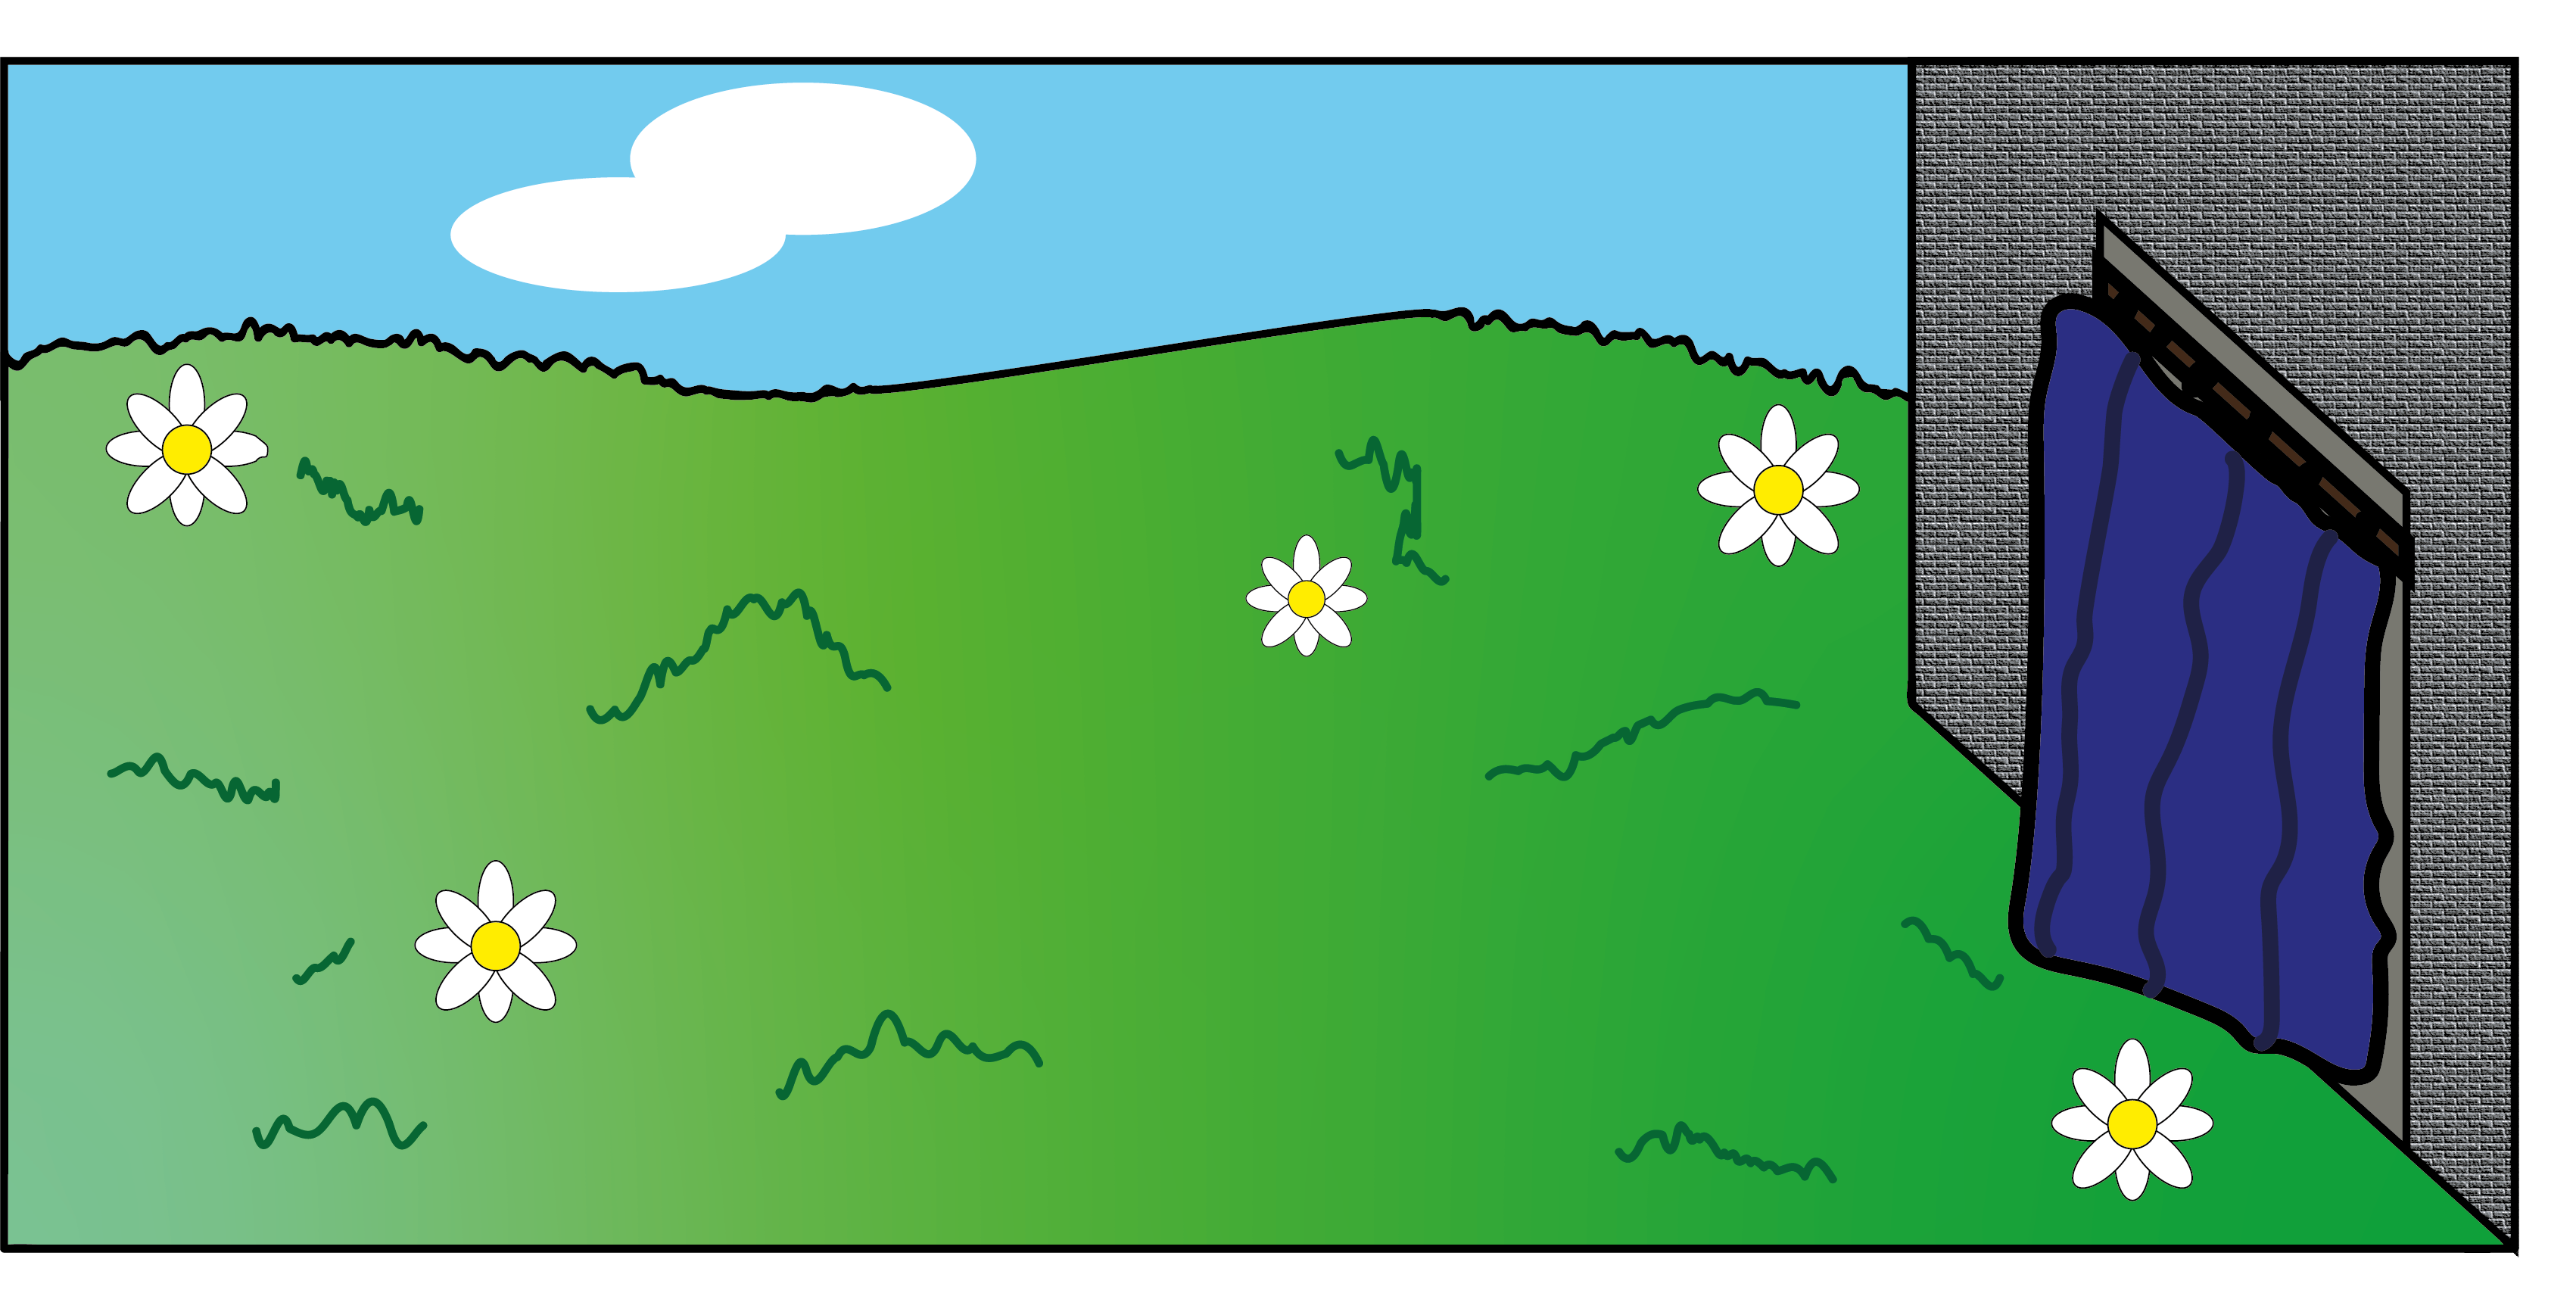
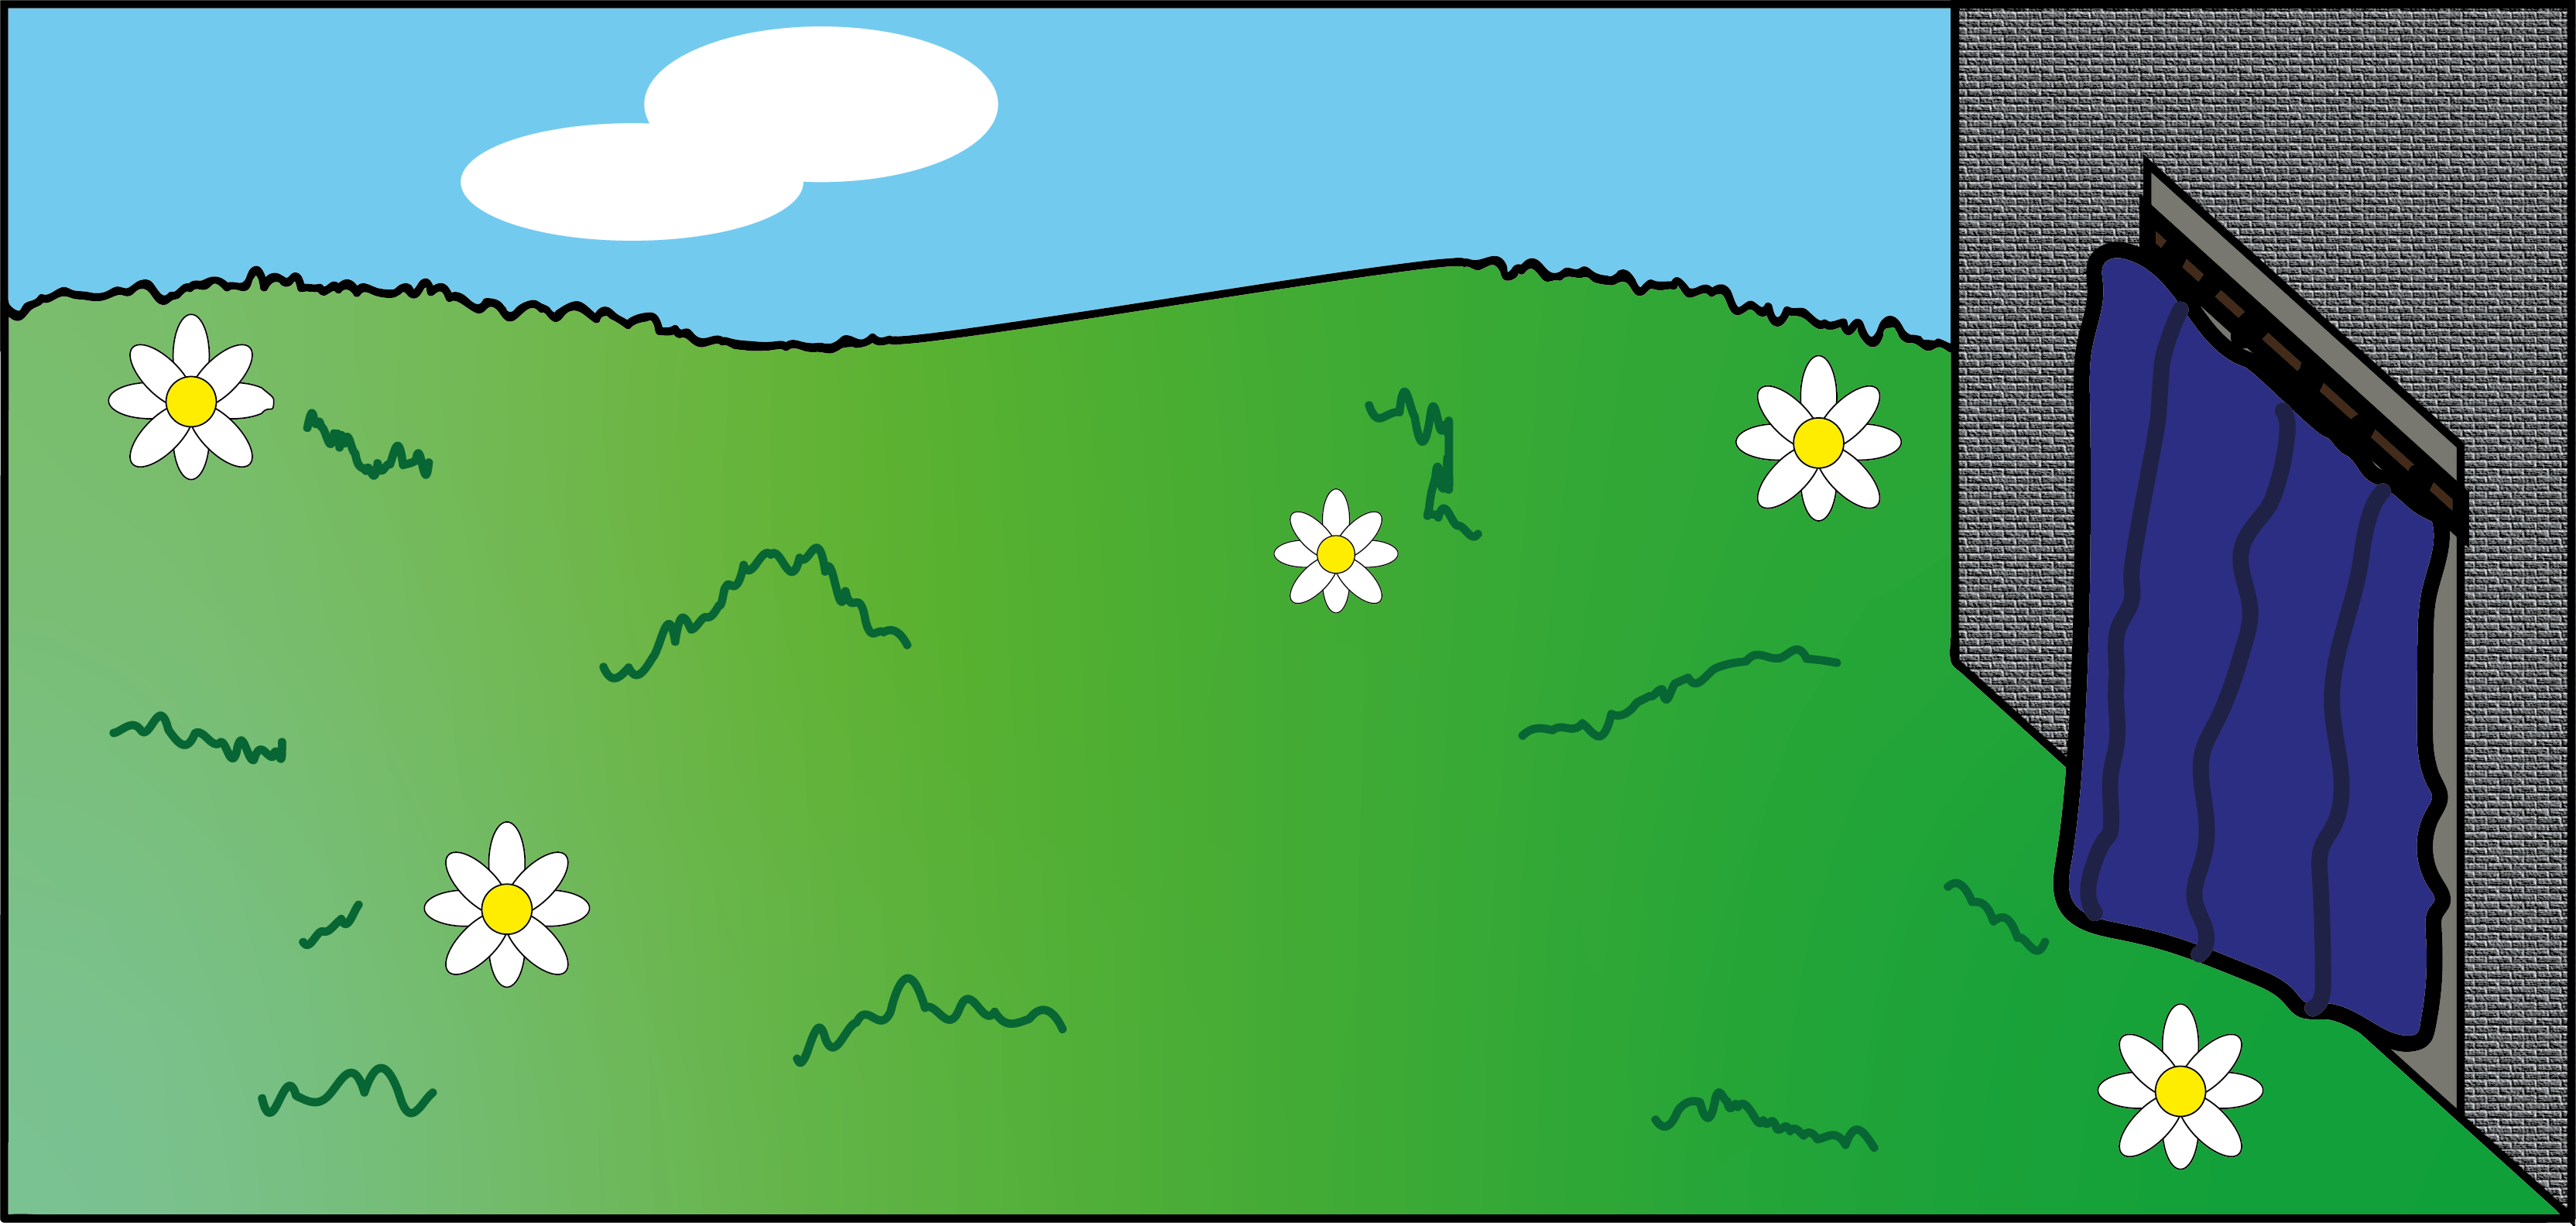
termine todas las interfaces de la casa

diff --git a/frontEnd/Cusi_style/Cusi_style.css b/frontEnd/Cusi_style/Cusi_style.css
@@ -198,7 +198,7 @@ button:focus-visible {
 
 .garden {
     position: relative;
-    width: 103%;
+    width: 100%;
     min-height: 100vh;
     margin: 0;
     background-image: url('garden-scr/fondo_b.png');
@@ -309,6 +309,44 @@ button:focus-visible {
     position: absolute;
     bottom: 228px;
     right: 402px;
+    display: flex;
+    flex-wrap: wrap;
+    gap: 10px;
+    justify-content: flex-end;
+}
+
+.pieza {
+    position: absolute;
+    width: 100%;
+    min-height: 100vh;
+    margin: 0;
+    background-image: url('room-scr/fondo_b.png');
+    background-size: cover;
+    background-position: center;
+    background-repeat: no-repeat;
+    display: flex;
+    flex-direction: column;
+    align-items: center;
+    justify-content: flex-end;
+    box-sizing: border-box;
+    padding: 70px 16px;
+
+}
+
+#armario {
+    position: absolute;
+    top: 95px;
+    left: 325px;
+    display: flex;
+    flex-wrap: wrap;
+    gap: 10px;
+    justify-content: flex-end;
+}
+
+#minijuegos {
+    position: absolute;
+    bottom: 243px;
+    right: 300px;
     display: flex;
     flex-wrap: wrap;
     gap: 10px;

diff --git a/frontEnd/Cusi1.html b/frontEnd/Cusi1.html
@@ -11,18 +11,20 @@
 <body>
     <section class="pantalla-inicio">
         <div class="botones">
-            <button onclick="irA('config.php')" class="btn-secundario"> <img src="Cusi_style/eng.png" width="70"></button>
-            <button onclick="irA('living.php')">JUGAR</button>
+            <button onclick="irA('backEnd/config.php')" class="btn-secundario"> <img src="Cusi_style/eng.png"
+                    width="70"></button>
+            <button onclick="irA('backEnd/living.php')">JUGAR</button>
         </div>
-          <div class="campos">
-    <input type="text" id="nombre" placeholder="Tu nombre">
-    <button onclick="UserName()">CONFIRMAR</button>
-  </div>
-  <div class="goy">
-     <button onclick="irA('Epic_goy.php')">ACERCA DE NOSOTROS</button>
-  </div>
+        <div class="campos">
+            <input type="text" id="nombre" placeholder="Tu nombre">
+            <button onclick="UserName()">CONFIRMAR</button>
+        </div>
+        <div class="goy">
+            <button onclick="irA('backEnd/Epic_goy.php')">ACERCA DE NOSOTROS</button>
+        </div>
     </section>
 
 </body>
+
 </html>
 <script src="Cusi_script.js"></script>

diff --git a/frontEnd/backEnd/Epic_goy.html b/frontEnd/backEnd/Epic_goy.html
@@ -1,14 +1,17 @@
 <!DOCTYPE html>
 <html lang="en">
+
 <head>
     <meta charset="UTF-8">
     <meta name="viewport" content="width=device-width, initial-scale=1.0">
     <title>EPIC GOY</title>
 </head>
+
 <body>
-    
-<!-- a donde lleva el usuario tras clickear el "acerca de nosotros al lado del logo"-->
+
+    <!-- a donde lleva el usuario tras clickear el "acerca de nosotros al lado del logo"-->
 
 
 </body>
+
 </html>

diff --git a/frontEnd/backEnd/pieza.php b/frontEnd/backEnd/pieza.php
@@ -1,0 +1,30 @@
+<!--habitacion donde cusi tendra acceso a los minijuegos, podra dormir, cambiarse de skin, etc-->
+
+<!DOCTYPE html>
+<html lang="es">
+
+<head>
+    <meta charset="UTF-8">
+    <meta name="viewport" content="width=device-width, initial-scale=1.0">
+    <title>Cusi</title>
+    <link rel="stylesheet" href="../Cusi_style/Cusi_style.css">
+</head>
+
+<body>
+    <section class="pieza">
+        <div class="botones">
+            <button onclick="irA('baño.php')" class="arrow_l"><img src="../Cusi_style/left.png" width="70"></button>
+            <button onclick="irA('config.php')" class="btn-secundario" id="src"> <img src="../Cusi_style/eng.png"
+                    width="70"></button>
+        </div>
+
+        <img src="../Cusi_style/CUSI_skins/Cusi.png" width="550" id="cusi_a">
+        <img src="../Cusi_style/room-scr/games.png" width="480" id="minijuegos" class="im-btn" style="cursor: pointer;">
+        <img src="../Cusi_style/room-scr/armario.png" width="300" id="armario" class="im-btn" style="cursor: pointer;">
+
+    </section>
+
+    <script src="Cusi_script.js"></script>
+</body>
+
+</html>

diff --git a/frontEnd/backEnd/baño.php b/frontEnd/backEnd/baño.php
@@ -9,6 +9,7 @@
    <title>Cusi</title>
    <link rel="stylesheet" href="../Cusi_style/Cusi_style.css">
 </head>
+
 <body>
    <section class="baño">
       <div class="botones">
@@ -17,11 +18,11 @@
          <button onclick="irA('config.php')" class="btn-secundario" id="src"> <img src="../Cusi_style/eng.png"
                width="70"></button>
       </div>
-   
-     <img src="../Cusi_style/CUSI_skins/Cusi.png" width="550" id="cusi_a">
-     <img src="../Cusi_style/bat_scr/ducha.png" width="200" id="ducha" class="im-btn" style="cursor: pointer;">
-     <img src="../Cusi_style/bat_scr/leo.png" width="229" class="im-btn" id="leo">
-     
+
+      <img src="../Cusi_style/CUSI_skins/Cusi.png" width="550" id="cusi_a">
+      <img src="../Cusi_style/bat_scr/ducha.png" width="200" id="ducha" class="im-btn" style="cursor: pointer;">
+      <img src="../Cusi_style/bat_scr/leo.png" width="229" class="im-btn" id="leo">
+
    </section>
 
    <script src="Cusi_script.js"></script>

diff --git a/frontEnd/backEnd/cocina.php b/frontEnd/backEnd/cocina.php
@@ -9,6 +9,7 @@
    <title>Cusi</title>
    <link rel="stylesheet" href="../Cusi_style/Cusi_style.css">
 </head>
+
 <body>
    <section class="cocina">
       <div class="botones">
@@ -17,10 +18,10 @@
          <button onclick="irA('config.php')" class="btn-secundario" id="src"> <img src="../Cusi_style/eng.png"
                width="70"></button>
       </div>
-   
-     <img src="../Cusi_style/CUSI_skins/Cusi.png" width="550" id="cusi_a">
-     <img src="../Cusi_style/cocina-scr/heladera.png" width="270" id="heladera" class="im-btn" style="cursor: pointer;">
-     <img src="../Cusi_style/CUSI_skins/Franco.png" width="380" id="franco">
+
+      <img src="../Cusi_style/CUSI_skins/Cusi.png" width="550" id="cusi_a">
+      <img src="../Cusi_style/cocina-scr/heladera.png" width="270" id="heladera" class="im-btn" style="cursor: pointer;">
+      <img src="../Cusi_style/CUSI_skins/Franco.png" width="380" id="franco">
    </section>
 
    <script src="Cusi_script.js"></script>

diff --git a/frontEnd/backEnd/living.php b/frontEnd/backEnd/living.php
@@ -1,4 +1,3 @@
-
 <!DOCTYPE html>
 <html lang="es">
 
@@ -8,7 +7,7 @@
    <title>Cusi</title>
    <link rel="stylesheet" href="../Cusi_style/Cusi_style.css">
 </head>
-               <!--ZONA TERMINADA (interfaz)-->
+
 <body>
    <section class="living">
       <div class="botones">
@@ -17,10 +16,10 @@
          <button onclick="irA('config.php')" class="btn-secundario" id="src"> <img src="../Cusi_style/eng.png"
                width="70"></button>
       </div>
-   
+
       <img src="../Cusi_style/CUSI_skins/Cusi.png" width="550" id="cusi_a">
-     <img src="../Cusi_style/living-scr/tienda_btn.png" width="350" id="tienda" class="im-btn" style="cursor: pointer;">
-     <img src="../Cusi_style/CUSI_skins/Diego.png" width="350" id="diego">
+      <img src="../Cusi_style/living-scr/tienda_btn.png" width="350" id="tienda" class="im-btn" style="cursor: pointer;">
+      <img src="../Cusi_style/CUSI_skins/Diego.png" width="350" id="diego">
    </section>
 
    <script src="Cusi_script.js"></script>

diff --git a/frontEnd/backEnd/jardin.php b/frontEnd/backEnd/jardin.php
@@ -1,4 +1,3 @@
-
 <!DOCTYPE html>
 <html lang="es">
 
@@ -7,7 +6,8 @@
    <meta name="viewport" content="width=device-width, initial-scale=1.0">
    <title>Cusi</title>
    <link rel="stylesheet" href="../Cusi_style/Cusi_style.css">
-</head>            
+</head>
+
 <body>
    <section class="garden">
       <div class="botones">